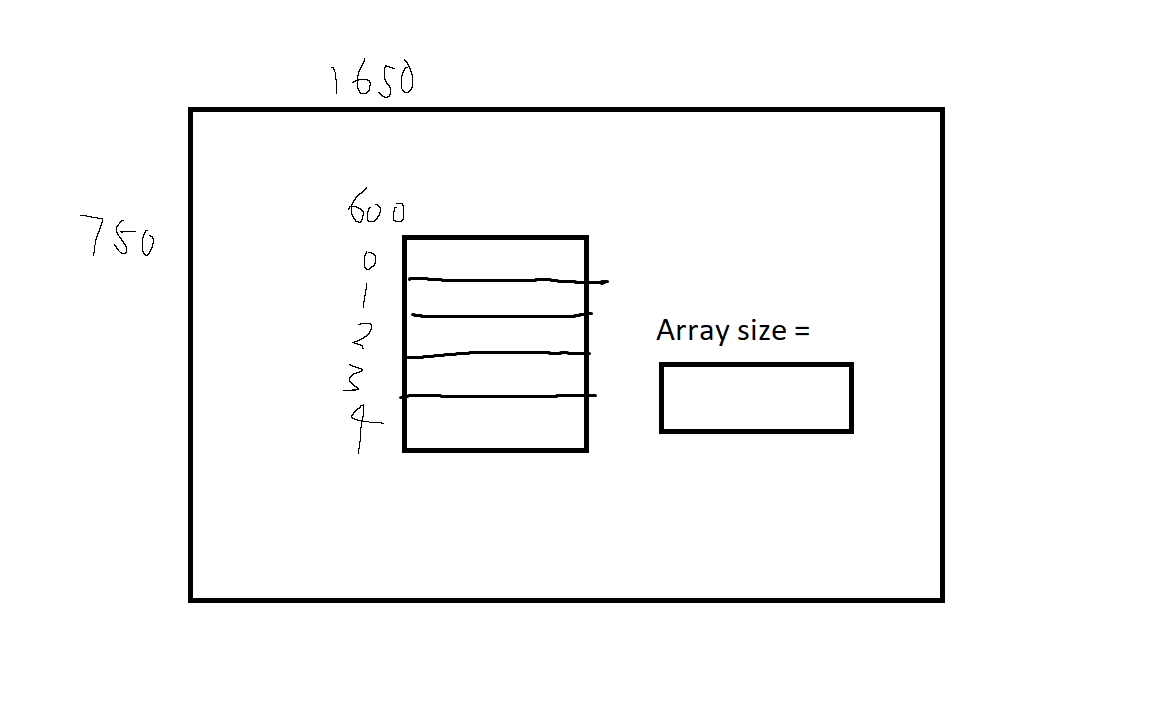
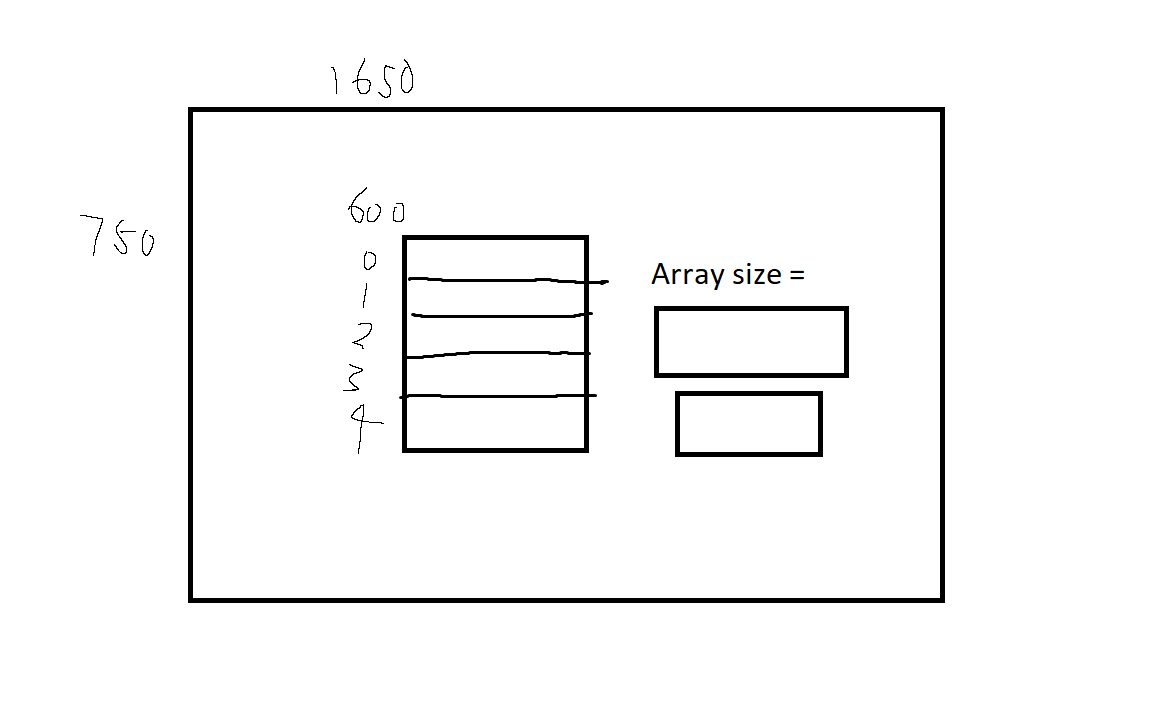
selected effect of the starting menu's selection list and function of confirmButton

Changed region(s): [[0.5529, 0.3687, 0.7372, 0.6453]]

diff --git a/src/Menu.cpp b/src/Menu.cpp
@@ -11,10 +11,14 @@ Menu::Menu(Engine* engine)
     : engine(engine), selectedItemIndex(-1), selectionList{}, confirmButton(nullptr)
 {
     for (int i = 0; i < TOTAL; ++i)
+        // instances of selectionButton
         selectionList[i] = new SelectionButton(Vector2f(SELECTION_BUTTON_WIDTH, SELECTION_BUTTON_HEIGHT),
                                                Vector2f(MENU_SELECTION_POSITION_X, MENU_SELECTION_POSITION_Y +
                                                                                    (float) i * SELECTION_BUTTON_HEIGHT),
                                                i);
+    // instance of confirmButton
+    confirmButton = new ConfirmButton(Vector2f(CONFIRM_BUTTON_WIDTH, CONFIRM_BUTTON_HEIGHT),
+                                      Vector2f(MENU_CONFIRM_POSITION_X, MENU_CONFIRM_POSITION_Y));
 }
 
 void Menu::draw()
@@ -22,6 +26,9 @@ void Menu::draw()
     // draw the selectionList
     for (auto & selectionButton : selectionList)
         selectionButton->draw(engine->window);
+
+    // draw the confirmButton
+    confirmButton->draw(engine->window);
     engine->window.display();
 
     engine->window.clear(BACKGROUND_COLOR);
@@ -32,6 +39,8 @@ Menu::~Menu()
 {
     for(auto & selectionButton : selectionList)
         delete selectionButton;
+
+    delete confirmButton;
 }
 
 void Menu::run()
@@ -40,7 +49,7 @@ void Menu::run()
     bool arraySizeValid = true;         // since we have default array size
 
     // the main loop of the start menu process
-    while (!algorithmSelected || !arraySizeValid) {
+    while (!algorithmSelected || !arraySizeValid || !confirmButton->isConfirmed()) {
         draw();
         handleInput(algorithmSelected, arraySizeValid);
     }
@@ -79,20 +88,42 @@ void Menu::handleInput(bool& selected, bool& arraySizeValid)
             engine->window.close();
         }
 
-        if (event.type == Event::MouseMoved)
+        if (event.type == Event::MouseMoved) {
+            // check the selection list buttons and confirmation button
             for (auto& selectionButton: selectionList) {
                 if (selectionButton->isHovering(engine->window))
                     selectionButton->onHovering();
                 else
                     selectionButton->resetTexture();
             }
+            // check confirmation button
+            if (confirmButton->isHovering(engine->window))
+                confirmButton->onHovering();
+            else
+                confirmButton->resetTexture();
+        }
 
-        if (event.type == Event::MouseButtonPressed)
-            for (int i=0; i < TOTAL; ++i)
+        // Mouse clicking events
+        if (event.type == Event::MouseButtonPressed) {
+            // onClick event handling of the selection menu
+            for (int i = 0; i < TOTAL; ++i)
                 if (selectionList[i]->isHovering(engine->window)) {
+                    // call onClick() of old selectedButton to reverse its beingSelected flag
+                    if (selectedItemIndex != -1)
+                        selectionList[selectedItemIndex]->onClick();
                     selectedItemIndex = i;
+                    selectionList[selectedItemIndex]->onClick();
                     selected = true;
+
+                    // any changes will reset the confirmation flag
+                    confirmButton->reset();
                 }
+
+            // onClick event of confirmButton
+            if (confirmButton->isHovering(engine->window))
+                confirmButton->onClick();
+        }
+
     }
 }
 

diff --git a/src/Button/SelectionButton.cpp b/src/Button/SelectionButton.cpp
@@ -8,13 +8,18 @@ SelectionButton::SelectionButton(const sf::Vector2f& size, const sf::Vector2f& p
     : Button(size, position), choiceIndex(choiceIndex)
 {
     // load the normal texture and set it to the button
-    std::string textureFilename = "../assets/menuSelectionList/menu_selection_" + std::to_string(choiceIndex) + "_normal.png";
+    std::string textureFilename = "../assets/menu/menu_selection_" + std::to_string(choiceIndex) + "_normal.png";
     if (!normalTexture.loadFromFile(textureFilename))
         throw std::runtime_error("cannot load texture of menu selection button!");
 
     // load the hovering texture
-    textureFilename = "../assets/menuSelectionList/menu_selection_" + std::to_string(choiceIndex) + "_hovering.png";
+    textureFilename = "../assets/menu/menu_selection_" + std::to_string(choiceIndex) + "_hovering.png";
     if (!hoveringTexture.loadFromFile(textureFilename))
+        throw std::runtime_error("cannot load texture of menu selection button!");
+
+    // load the selected texture
+    textureFilename = "../assets/menu/menu_selection_" + std::to_string(choiceIndex) + "_selected.png";
+    if (!selectedTexture.loadFromFile(textureFilename))
         throw std::runtime_error("cannot load texture of menu selection button!");
 
     setTexture(&normalTexture);
@@ -23,16 +28,24 @@ SelectionButton::SelectionButton(const sf::Vector2f& size, const sf::Vector2f& p
 
 void SelectionButton::onClick()
 {
+    // change the texture
+    if (beingSelected)
+        setTexture(&normalTexture);
+    else
+        setTexture(&selectedTexture);
 
+    // reverse the flag of being selected
+    beingSelected = !beingSelected;
 }
 
 void SelectionButton::onHovering()
 {
-    setTexture(&hoveringTexture);
+    if (!beingSelected)
+        setTexture(&hoveringTexture);
 }
 
 void SelectionButton::resetTexture()
 {
-    if (display.getTexture() == &hoveringTexture)
+    if (!beingSelected && display.getTexture() == &hoveringTexture)
         setTexture(&normalTexture);
 }

diff --git a/include/UI_common.h b/include/UI_common.h
@@ -24,6 +24,13 @@ const float SELECTION_BUTTON_HEIGHT = (float) WINDOW_HEIGHT / 9.18f;
 // position of the top-left corner of selection menu(i.e. first selection button)
 const float MENU_SELECTION_POSITION_X = (float) WINDOW_WIDTH * 2 / 8;
 const float MENU_SELECTION_POSITION_Y = SELECTION_BUTTON_HEIGHT * 2.5f;
+// dimension of confirmation button
+const float CONFIRM_BUTTON_WIDTH = (float) WINDOW_WIDTH / 7.6f;
+const float CONFIRM_BUTTON_HEIGHT = (float) WINDOW_HEIGHT / 7.2f;
+// position of top-left corner of confirmation button in the starting menu
+const float MENU_CONFIRM_POSITION_X = (float) WINDOW_WIDTH * 5 / 8;
+const float MENU_CONFIRM_POSITION_Y = MENU_SELECTION_POSITION_Y + 5 * SELECTION_BUTTON_HEIGHT
+                                        - CONFIRM_BUTTON_HEIGHT;      // to make it align with last selection button
 
 // the dimension of the region to display the sorting process
 const float DISPLAY_WIDTH = 1500.0f;

diff --git a/include/Menu.h b/include/Menu.h
@@ -6,6 +6,7 @@
 #define SORTINGVISUALIZER_MENU_H
 
 #include "Button/SelectionButton.h"
+#include "Button/ConfirmButton.h"
 
 // forward declaration of Engine
 class Engine;
@@ -25,7 +26,7 @@ class Menu {
         SelectionButton* selectionList[TOTAL];
 
         // confirm button
-        Button* confirmButton;
+        ConfirmButton* confirmButton;
         // pointer of the engine the possessed this menu
         Engine* engine;
 

diff --git a/include/Button/SelectionButton.h b/include/Button/SelectionButton.h
@@ -17,6 +17,7 @@ class SelectionButton : public Button{
         // textures when different status
         sf::Texture normalTexture;
         sf::Texture hoveringTexture;
+        sf::Texture selectedTexture;        // the texture of being selected
 
     public:
         // constructor

diff --git a/include/Button/ConfirmButton.h b/include/Button/ConfirmButton.h
@@ -20,6 +20,8 @@ class ConfirmButton : public Button{
 
         void resetTexture();
         void onClick() override;
+        // reset the confirmed status to false;
+        void reset();
         void onHovering() override;
 
         // accessor

diff --git a/src/Button/ConfirmButton.cpp b/src/Button/ConfirmButton.cpp
@@ -41,3 +41,8 @@ void ConfirmButton::resetTexture()
     if (display.getTexture() == &hoveringTexture)
         setTexture(&normalTexture);
 }
+
+void ConfirmButton::reset()
+{
+    confirmed = false;
+}
